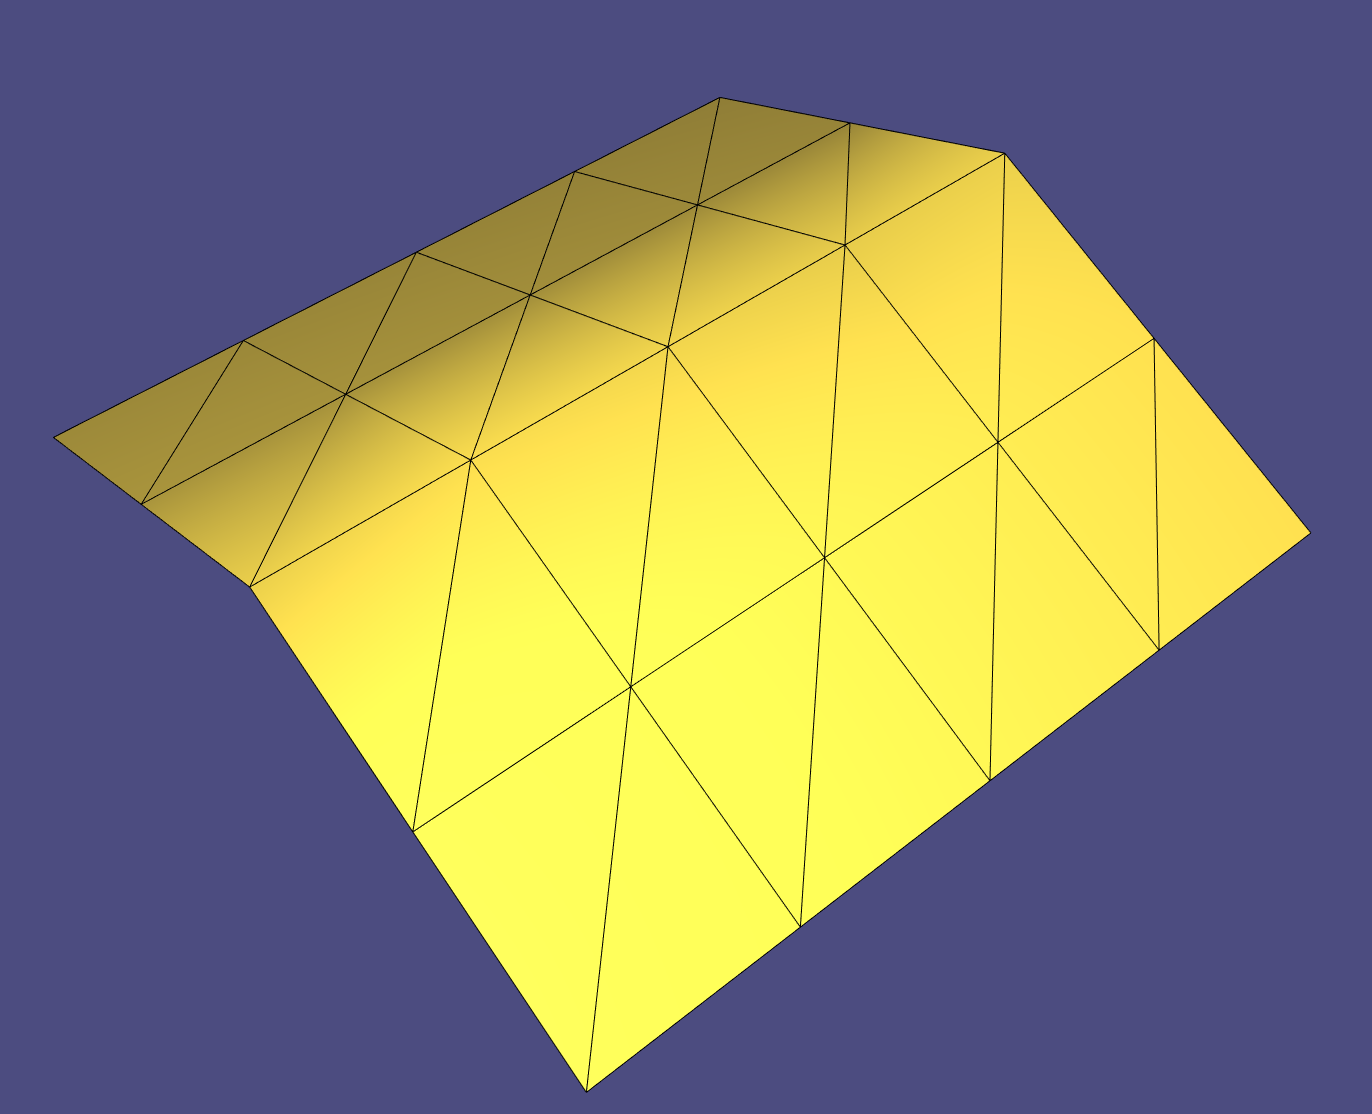
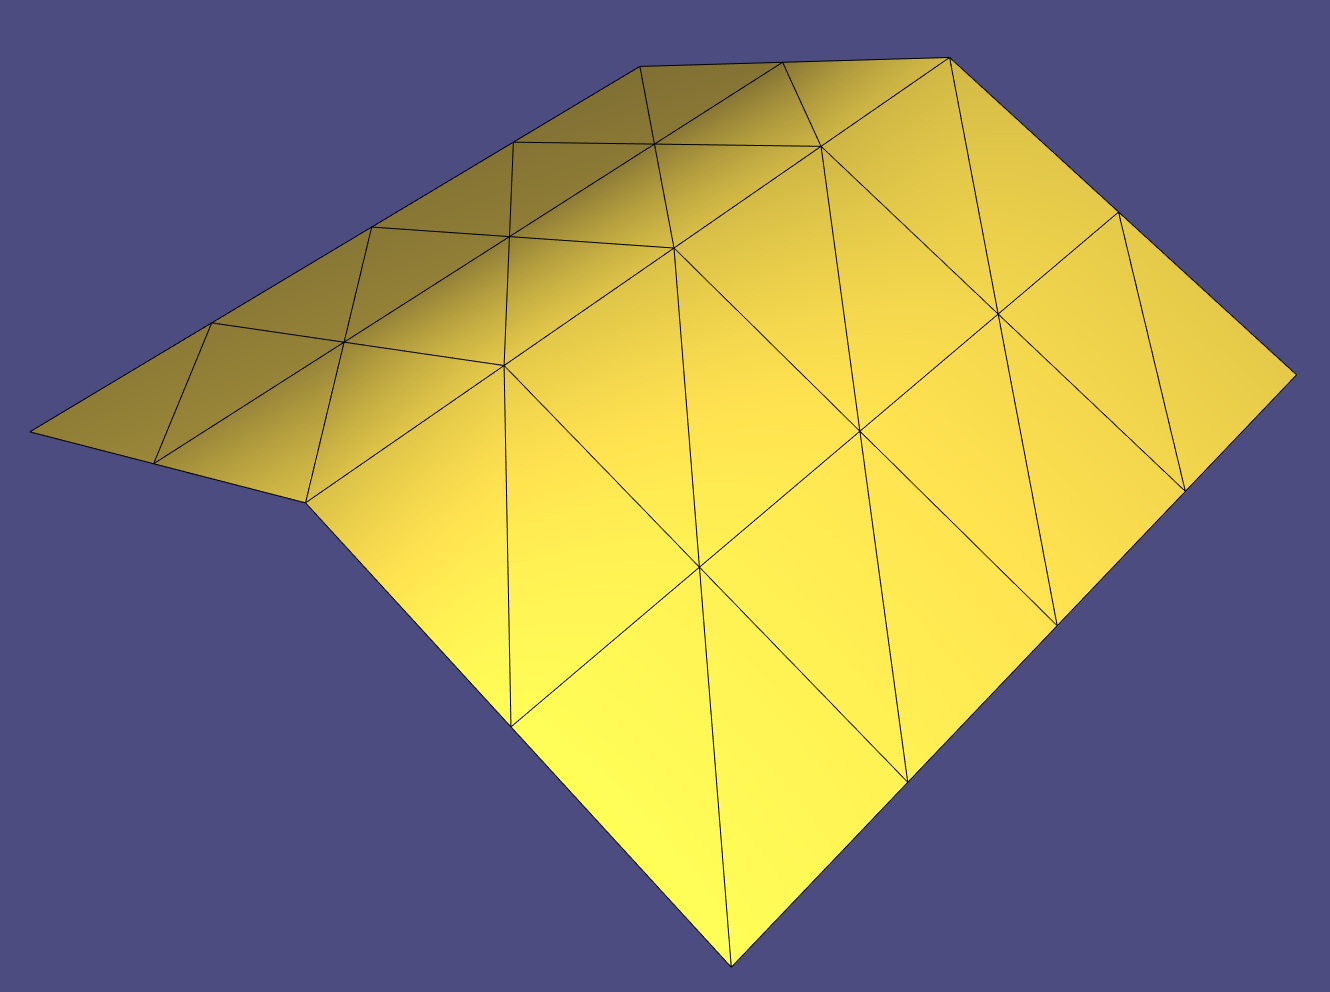
Solution assignment 1: changed the boundary behavior, so vertices on the bound won't move

diff --git a/assignment1/src/main.cpp b/assignment1/src/main.cpp
@@ -13,6 +13,7 @@
 #include <igl/jet.h>
 #include <igl/barycenter.h>
 #include <igl/edge_topology.h>
+#include <igl/boundary_loop.h>
 
 using namespace std;
 using Viewer = igl::opengl::glfw::Viewer;
@@ -54,15 +55,21 @@ void subdivide_sqrt3(const Eigen::MatrixXd &V,
     }
 
     Eigen::MatrixXd P = Eigen::MatrixXd(V.rows(), V.cols());
+    std::vector<int> boundVerts;
+    igl::boundary_loop(F, boundVerts);
     for (int i = 0; i < V.rows(); i++) {
-        int n = vv[i].size();
-        double an = (4.0f - 2.0f * std::cos((2 * M_PI) / n)) / 9.0f;
-        Eigen::Vector3d sumV = Eigen::Vector3d::Zero();
-        for (int index: vv[i]) {
-            sumV += V.row(index);
-        }
         Eigen::Vector3d prevVal = V.row(i);
-        P.row(i) = (1.0f - an) * prevVal + (an / n) * sumV;
+        if (std::find(boundVerts.begin(), boundVerts.end(), i) != boundVerts.end()) {
+            P.row(i) = prevVal;
+        } else {
+            int n = vv[i].size();
+            double an = (4.0f - 2.0f * std::cos((2 * M_PI) / n)) / 9.0f;
+            Eigen::Vector3d sumV = Eigen::Vector3d::Zero();
+            for (int index: vv[i]) {
+                sumV += V.row(index);
+            }
+            P.row(i) = (1.0f - an) * prevVal + (an / n) * sumV;
+        }
     }
     Vout = Eigen::MatrixXd(V.rows() + centers.rows(), V.cols());
     Vout << P, centers;
